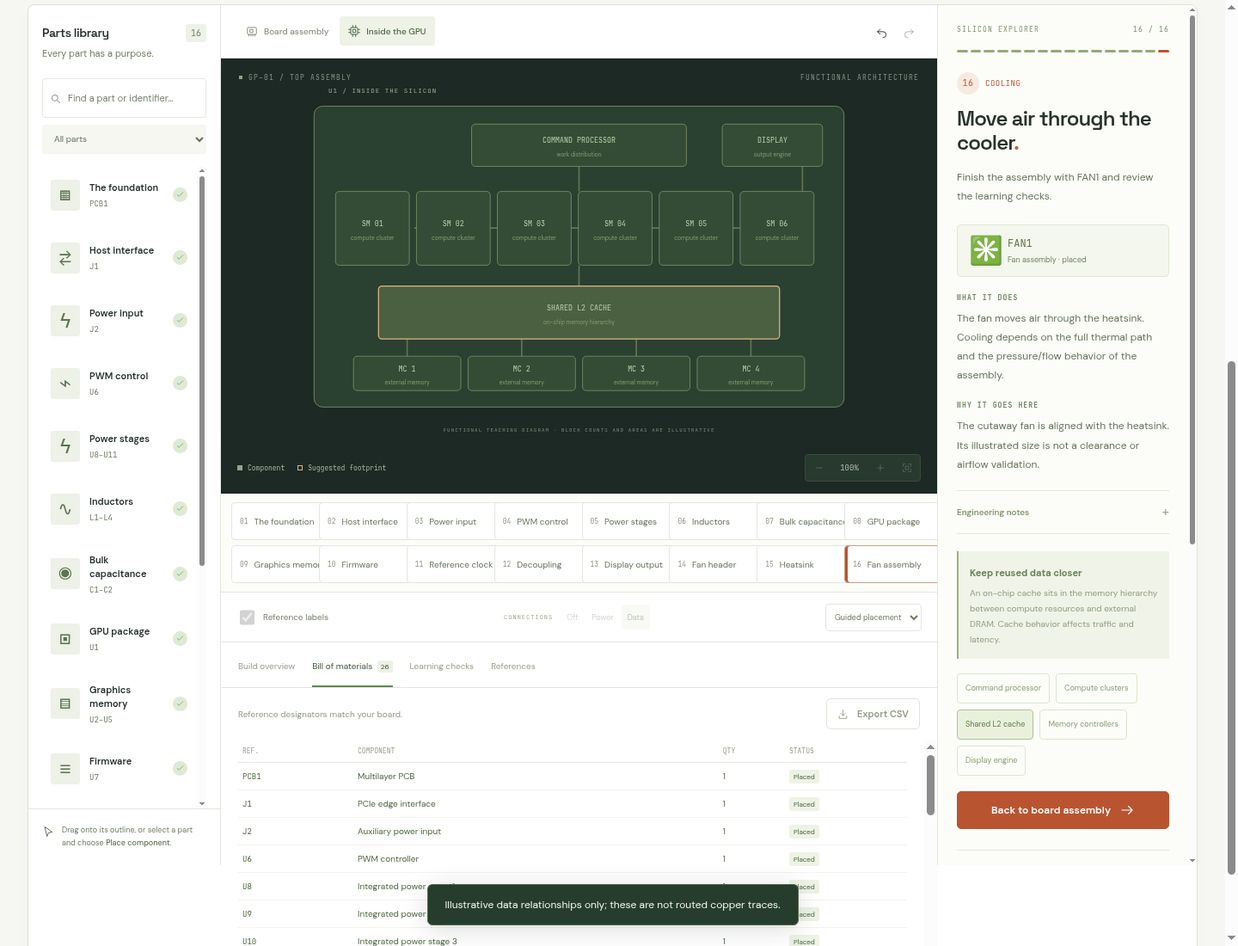
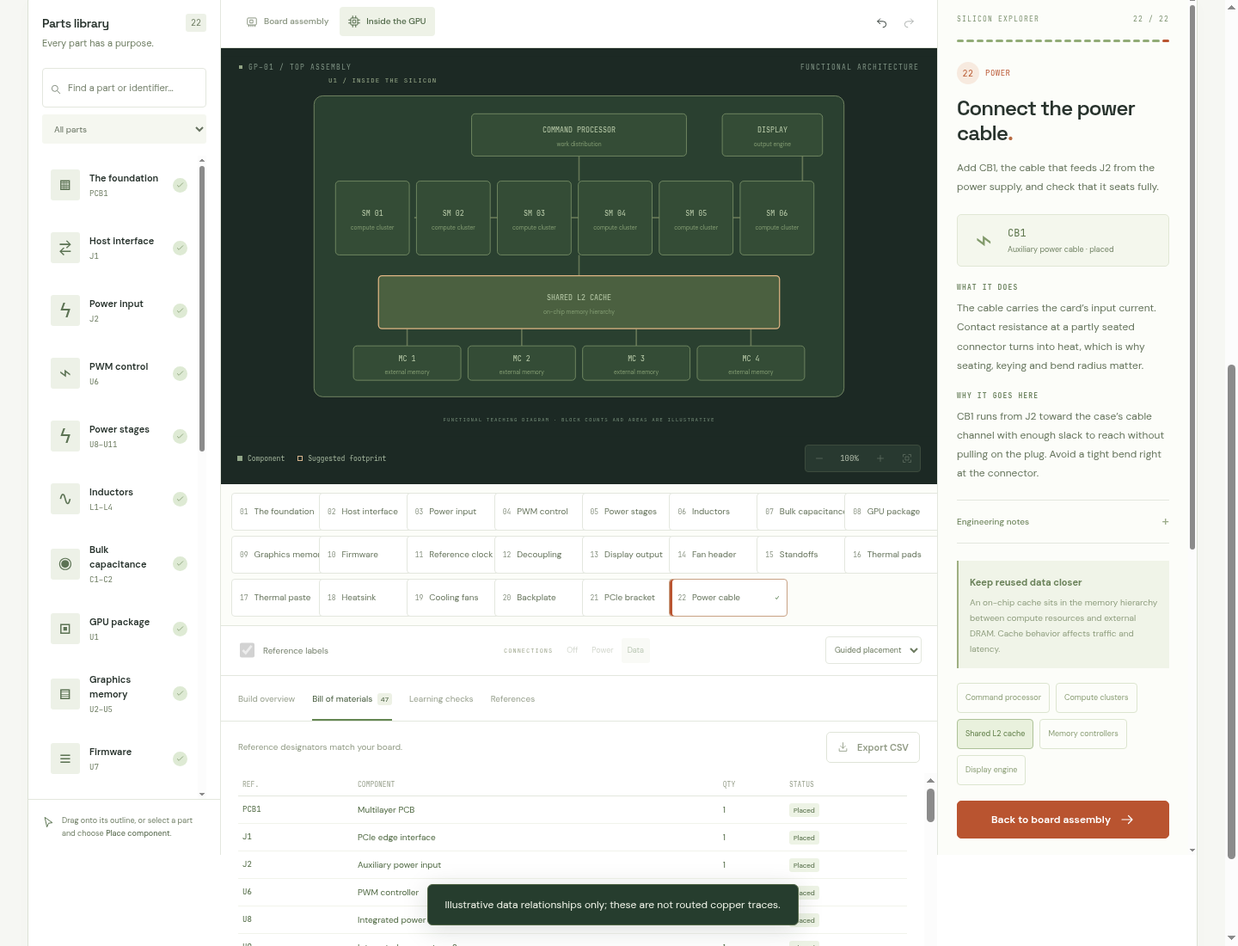
Draw the full card and record the Phase 3 verification

diff --git a/app/index.html b/app/index.html
@@ -5,10 +5,10 @@
 <a class="skip-link" href="#workspace">Skip to workbench</a>
 <header class="app-header"><a class="brand" href="./" aria-label="GPU Builder home"><span class="brand-symbol" aria-hidden="true">▦</span><span>GPU<span class="brand-light">Builder</span><small>THE HARDWARE LEARNING WORKBENCH</small></span></a><div class="header-middle"><span class="live-dot"></span> LEARN BY BUILDING <span class="version">PROTOTYPE / 01</span></div><div class="header-actions"><button class="quiet-button" id="help-button">How it works <span data-icon="help"></span></button><button class="button button-dark" id="export-button"><span data-icon="download"></span><span>Export project</span></button></div></header>
 <main id="workspace">
-<section class="bench-intro" aria-labelledby="bench-title"><div class="bench-copy"><p class="eyebrow">THE HARDWARE LEARNING WORKBENCH</p><h1 id="bench-title">Build a graphics card.<br><span>Understand every part.</span></h1><p class="bench-lede">Follow sixteen guided connections from the PCB to the cooler. Every package, reference designator and quiz is tied to the board in front of you.</p><div class="bench-actions"><a class="button button-orange" id="start-build" href="#workspace">Start the guided build <span data-icon="arrow"></span></a><a class="button" id="custom-build-teaser" href="#custom">Open the custom builder</a></div></div><div class="bench-gallery"><figure><img src="./assets/gpu/hero-card.webp" width="1600" height="1067" alt="A three-fan flagship graphics card installed in an open PC case"><figcaption>Flagship card · three-fan cooler</figcaption></figure><figure><img src="./assets/gpu/cooler-macro.webp" width="1600" height="1067" alt="Macro photograph of a heatsink, copper heatpipes and backplate" loading="lazy"><figcaption>Heatpipes into the fin stack</figcaption></figure><figure><img src="./assets/gpu/install.webp" width="1600" height="1067" alt="Hands seating a graphics card into a motherboard PCIe slot" loading="lazy"><figcaption>Seating the PCIe edge</figcaption></figure><figure><img src="./assets/gpu/board-macro.webp" width="1600" height="1067" alt="Top-down macro of a graphics card PCB with GPU and memory packages" loading="lazy"><figcaption>GPU, memory and power stages</figcaption></figure></div></section>
-<section class="project-bar" aria-label="Project settings"><div class="project-name-wrap"><span class="eyebrow">YOUR WORKSPACE <span>/</span> GP–01</span><label class="project-name-label"><span class="sr-only">Project name</span><input id="project-name" value="My first graphics card" maxlength="80" spellcheck="false"></label></div><div class="project-progress"><div><span id="progress-label">0 of 26 assemblies</span><span id="progress-percent">0%</span></div><progress id="progress" max="26" value="0" aria-label="Assembly progress"></progress></div><div class="save-state"><span class="save-dot"></span><span id="save-label">Saved on this browser</span></div></section>
+<section class="bench-intro" aria-labelledby="bench-title"><div class="bench-copy"><p class="eyebrow">THE HARDWARE LEARNING WORKBENCH</p><h1 id="bench-title">Build a graphics card.<br><span>Understand every part.</span></h1><p class="bench-lede">Follow twenty-two guided connections from the PCB to the cooler, the backplate and the bracket. Every package, reference designator and quiz is tied to the board in front of you.</p><div class="bench-actions"><a class="button button-orange" id="start-build" href="#workspace">Start the guided build <span data-icon="arrow"></span></a><a class="button" id="custom-build-teaser" href="#custom">Open the custom builder</a></div></div><div class="bench-gallery"><figure><img src="./assets/gpu/hero-card.webp" width="1600" height="1067" alt="A three-fan flagship graphics card installed in an open PC case"><figcaption>Flagship card · three-fan cooler</figcaption></figure><figure><img src="./assets/gpu/cooler-macro.webp" width="1600" height="1067" alt="Macro photograph of a heatsink, copper heatpipes and backplate" loading="lazy"><figcaption>Heatpipes into the fin stack</figcaption></figure><figure><img src="./assets/gpu/install.webp" width="1600" height="1067" alt="Hands seating a graphics card into a motherboard PCIe slot" loading="lazy"><figcaption>Seating the PCIe edge</figcaption></figure><figure><img src="./assets/gpu/board-macro.webp" width="1600" height="1067" alt="Top-down macro of a graphics card PCB with GPU and memory packages" loading="lazy"><figcaption>GPU, memory and power stages</figcaption></figure></div></section>
+<section class="project-bar" aria-label="Project settings"><div class="project-name-wrap"><span class="eyebrow">YOUR WORKSPACE <span>/</span> GP–01</span><label class="project-name-label"><span class="sr-only">Project name</span><input id="project-name" value="My first graphics card" maxlength="80" spellcheck="false"></label></div><div class="project-progress"><div><span id="progress-label">0 of 47 assemblies</span><span id="progress-percent">0%</span></div><progress id="progress" max="47" value="0" aria-label="Assembly progress"></progress></div><div class="save-state"><span class="save-dot"></span><span id="save-label">Saved on this browser</span></div></section>
 <div class="workbench">
-<aside class="library-panel" aria-label="Component library"><div class="panel-title"><h2>Parts library</h2><span id="library-count" class="counter">16</span></div><p class="panel-intro">Every part has a purpose.</p><label class="search-box"><span data-icon="search"></span><input id="part-search" type="search" placeholder="Find a part or identifier…" aria-label="Find a component"></label><label class="category-label"><span class="sr-only">Component category</span><select id="category-select"></select></label><div id="part-list" class="part-list"></div><div class="library-footer"><span data-icon="cursor"></span><span>Drag onto its outline, or select a part and choose <strong>Place component</strong>.</span></div></aside>
+<aside class="library-panel" aria-label="Component library"><div class="panel-title"><h2>Parts library</h2><span id="library-count" class="counter">22</span></div><p class="panel-intro">Every part has a purpose.</p><label class="search-box"><span data-icon="search"></span><input id="part-search" type="search" placeholder="Find a part or identifier…" aria-label="Find a component"></label><label class="category-label"><span class="sr-only">Component category</span><select id="category-select"></select></label><div id="part-list" class="part-list"></div><div class="library-footer"><span data-icon="cursor"></span><span>Drag onto its outline, or select a part and choose <strong>Place component</strong>.</span></div></aside>
 <section class="center-panel" aria-label="Design workbench"><div class="canvas-toolbar"><div class="segmented" role="group" aria-label="Workbench view"><button id="board-view" class="active" aria-pressed="true"><span data-icon="board"></span>Board assembly</button><button id="die-view" aria-pressed="false"><span data-icon="chip"></span>Inside the GPU</button></div><div class="history-tools"><button id="undo-button" class="icon-button" title="Undo (Ctrl or Cmd + Z)" aria-label="Undo"><span data-icon="undo"></span></button><button id="redo-button" class="icon-button" title="Redo (Ctrl or Cmd + Shift + Z)" aria-label="Redo"><span data-icon="redo"></span></button></div></div>
 <div class="canvas-frame"><div class="canvas-topline"><span><i></i> GP–01 / TOP ASSEMBLY</span><span id="canvas-mode-label">GUIDED WORKSPACE</span></div><div id="canvas" class="board-canvas"></div><div class="canvas-bottomline"><div class="canvas-legend"><span><i class="legend-chip"></i> Component</span><span><i class="legend-footprint"></i> Suggested footprint</span></div><div class="zoom-controls"><button id="zoom-out" aria-label="Zoom out" title="Zoom out"><span data-icon="minus"></span></button><span id="zoom-level">100%</span><button id="zoom-in" aria-label="Zoom in" title="Zoom in"><span data-icon="plus"></span></button><button id="zoom-fit" aria-label="Fit board" title="Fit board"><span data-icon="fit"></span></button></div></div></div>
 <nav class="build-path" id="build-path" aria-label="Build path"></nav>
@@ -22,6 +22,6 @@
 <section class="custom-view" id="custom-view" hidden aria-labelledby="custom-title"><div class="custom-head"><div><p class="eyebrow">CUSTOM BUILD <span>/</span> SEPARATE FROM THE LESSONS</p><h2 id="custom-title">Size the memory.<br>Fill the banks.</h2><p class="bench-lede">Set a VRAM target and a package size. The builder works out how many memory packages a card of that size needs, groups them into banks, and lets you fill the board.</p></div><a class="text-link" id="custom-back" href="#workspace">Back to the teaching workbench</a></div><div class="custom-controls"><label class="custom-field"><span>VRAM target</span><select id="custom-capacity"></select></label><label class="custom-field"><span>Package size</span><select id="custom-module"></select></label><div class="custom-actions"><button class="button button-orange" id="custom-place-bank" type="button">Place next bank</button><button class="button" id="custom-place-all" type="button">Fill all banks</button><button class="button" id="custom-reset" type="button">Reset build</button></div></div><p class="custom-summary" id="custom-summary" role="status"></p><div class="custom-board" id="custom-board"></div><p class="custom-note">A 512 GB target is sixteen 32 GB packages in two banks. Package counts, bus widths and bank grouping are teaching estimates, not a vendor design.</p></section>
 <input id="import-file" type="file" accept=".json,application/json" hidden>
 <div id="toast" class="toast" role="status" aria-live="polite"></div>
-<dialog id="help-dialog"><div class="dialog-heading"><span class="eyebrow">WELCOME TO YOUR BENCH</span><button class="icon-button close-dialog" aria-label="Close help"><span data-icon="close"></span></button></div><h2>Build something.<br>Understand everything.</h2><p>Start with PCB1, then follow the guide through power delivery, the processor, memory and cooling.</p><ol><li><strong>Select a part.</strong> Read its role and reference identifier in the guide.</li><li><strong>Place it.</strong> Use the placement button or drag it onto its suggested outline.</li><li><strong>Make the connection.</strong> Answer a knowledge check, inspect installed parts, or view the GPU’s internal blocks.</li></ol><p>Explore mode lets you move and rotate parts. Removing a part also removes components that depend on it; Undo restores the change.</p><div class="help-callout">This is a learning workbench. Package geometry, power phases and ratings are illustrative. The checks do not replace electrical simulation or PCB/ASIC design verification.</div><p class="shortcut-note">Ctrl/Cmd + Z: undo · Ctrl/Cmd + Shift + Z: redo · Escape: clear selection. Export your project to move it between browsers.</p><button class="button button-orange close-dialog">Let’s build <span data-icon="arrow"></span></button></dialog>
+<dialog id="help-dialog"><div class="dialog-heading"><span class="eyebrow">WELCOME TO YOUR BENCH</span><button class="icon-button close-dialog" aria-label="Close help"><span data-icon="close"></span></button></div><h2>Build something.<br>Understand everything.</h2><p>Start with PCB1, then follow the guide through power delivery, the processor, memory, thermal interface, cooling, the backplate and the bracket.</p><ol><li><strong>Select a part.</strong> Read its role and reference identifier in the guide.</li><li><strong>Place it.</strong> Use the placement button or drag it onto its suggested outline.</li><li><strong>Make the connection.</strong> Answer a knowledge check, inspect installed parts, or view the GPU’s internal blocks.</li></ol><p>Explore mode lets you move and rotate parts. Removing a part also removes components that depend on it; Undo restores the change.</p><div class="help-callout">This is a learning workbench. Package geometry, power phases and ratings are illustrative. The checks do not replace electrical simulation or PCB/ASIC design verification.</div><p class="shortcut-note">Ctrl/Cmd + Z: undo · Ctrl/Cmd + Shift + Z: redo · Escape: clear selection. Export your project to move it between browsers.</p><button class="button button-orange close-dialog">Let’s build <span data-icon="arrow"></span></button></dialog>
 <dialog id="reset-dialog"><div class="dialog-heading"><span class="eyebrow">NEW PROJECT</span><button class="icon-button close-dialog" aria-label="Cancel new project"><span data-icon="close"></span></button></div><h2>A fresh board?</h2><p>This replaces the workspace saved in this browser. Export your current project first if you want to keep a copy.</p><div class="dialog-actions"><button class="button close-dialog">Keep working</button><button id="confirm-reset" class="button button-orange">Start new project</button></div></dialog>
 </body></html>

diff --git a/app/src/app.js b/app/src/app.js
@@ -7,7 +7,7 @@ const storageKey='gpu-builder.project.v1';
 let project=createProject(),loadWarning='',storageAvailable=true;
 try{const raw=localStorage.getItem(storageKey);if(raw)project=validateProject(JSON.parse(raw));}catch{loadWarning='Your saved project could not be loaded. You can import an exported copy or start a new build.';}
 let selected=nextPart(project)?.id||'U1';
-let lessonIndex=groups.findIndex(g=>!g.parts.every(p=>installed(project,p.id))||project.answers[g.index]!==g.quiz.correct);if(lessonIndex<0)lessonIndex=15;
+let lessonIndex=groups.findIndex(g=>!g.parts.every(p=>installed(project,p.id))||project.answers[g.index]!==g.quiz.correct);if(lessonIndex<0)lessonIndex=groups.length-1;
 let view='board',archSelected='compute',overlay='none',labels=true,zoom=1,pan={x:0,y:0},dock='overview',past=[],future=[],toastTimer;
 let drag=null;
 document.querySelectorAll('[data-icon]').forEach(el=>el.innerHTML=icon(el.dataset.icon));
@@ -40,16 +40,16 @@ function renderGuide(){
  const id=inspected?selectedDef:pending||g.parts.at(-1),needs=pending?missing(project,pending.id):[];
  const correct=project.answers[lessonIndex]===g.quiz.correct;const answered=Object.hasOwn(project.answers,lessonIndex);
  const ref=sources[g.source];
- $('#guide-content').innerHTML=`<div class="guide-eyebrow"><span>${view==='die'?'SILICON EXPLORER':'YOUR ASSEMBLY GUIDE'}</span><span>${String(lessonIndex+1).padStart(2,'0')} / 16</span></div><div class="guide-step" aria-label="Sixteen assembly lessons">${groups.map(group=>`<span class="${group.index===lessonIndex?'current':group.parts.every(p=>installed(project,p.id))?'complete':''}"></span>`).join('')}</div><div class="lesson-index"><span class="number">${String(lessonIndex+1).padStart(2,'0')}</span><span>${esc(g.category.toUpperCase())}</span></div><h2>${esc(g.title)}<span style="color:#b86c43">.</span></h2><p class="lesson-intro">${esc(g.intro)}</p><div class="component-identity"><span class="identity-symbol" aria-hidden="true">${g.symbol}</span><div class="identity-info"><strong>${esc(id.id)}</strong><small>${esc(id.name)}${inspected?' · placed':''}</small></div></div><section class="lesson-section"><h3>What it does</h3><p>${esc(g.function)}</p></section><section class="lesson-section"><h3>Why it goes here</h3><p>${esc(g.placement)}</p></section><details class="engineering-details"><summary>Engineering notes</summary><p>${esc(g.detail)}</p></details>
+ $('#guide-content').innerHTML=`<div class="guide-eyebrow"><span>${view==='die'?'SILICON EXPLORER':'YOUR ASSEMBLY GUIDE'}</span><span>${String(lessonIndex+1).padStart(2,'0')} / ${groups.length}</span></div><div class="guide-step" aria-label="${groups.length} assembly lessons">${groups.map(group=>`<span class="${group.index===lessonIndex?'current':group.parts.every(p=>installed(project,p.id))?'complete':''}"></span>`).join('')}</div><div class="lesson-index"><span class="number">${String(lessonIndex+1).padStart(2,'0')}</span><span>${esc(g.category.toUpperCase())}</span></div><h2>${esc(g.title)}<span style="color:#b86c43">.</span></h2><p class="lesson-intro">${esc(g.intro)}</p><div class="component-identity"><span class="identity-symbol" aria-hidden="true">${g.symbol}</span><div class="identity-info"><strong>${esc(id.id)}</strong><small>${esc(id.name)}${inspected?' · placed':''}</small></div></div><section class="lesson-section"><h3>What it does</h3><p>${esc(g.function)}</p></section><section class="lesson-section"><h3>Why it goes here</h3><p>${esc(g.placement)}</p></section><details class="engineering-details"><summary>Engineering notes</summary><p>${esc(g.detail)}</p></details>
  ${view==='die'?`<div class="arch-info"><strong>${esc(architectureBlocks.find(b=>b.id===archSelected).title)}</strong><p>${esc(architectureBlocks.find(b=>b.id===archSelected).text)}</p></div><div class="arch-list">${architectureBlocks.map(b=>`<button class="${b.id===archSelected?'active':''}" data-arch-select="${b.id}">${esc(b.label)}</button>`).join('')}</div><button class="button button-orange place-button" data-action="return-board">Back to board assembly ${icon('arrow')}</button>`:`${g.parts.length>1?`<div class="group-status">${g.parts.map(p=>`<span class="${installed(project,p.id)?'placed':''}">${esc(p.id)} ${installed(project,p.id)?'✓':''}</span>`).join('')}</div>`:''}<button class="button button-orange place-button" data-action="place" ${done||needs.length?'disabled':''}>${done?icon('check'):icon('plus')} ${done?'Step assembled':`Place ${esc(pending.id)}`}</button><p class="placement-note">${needs.length?'Requires '+esc(needs.join(', '))+' first.':done?'Answer the knowledge check to continue.':'Snaps to the suggested footprint · drag also supported'}</p>${inspected&&id.kind!=='pcb'?`<div class="inspect-actions"><button class="button" data-action="rotate" ${project.mode!=='explore'?'disabled':''}>${icon('rotate')} Rotate</button><button class="button" data-action="remove">${icon('trash')} Remove</button></div>${project.mode==='explore'?`<div class="nudge-controls"><span>MOVE / 5 DIAGRAM UNITS</span>${[[-5,0,'←','left'],[0,-5,'↑','up'],[0,5,'↓','down'],[5,0,'→','right']].map(([x,y,label,direction])=>`<button data-nudge-x="${x}" data-nudge-y="${y}" aria-label="Move selected component ${direction}">${label}</button>`).join('')}</div>`:''}<p class="selection-note">${project.mode==='explore'?'Drag the selected package to move it.':'Switch to Explore layout to move or rotate parts.'} Removal also removes dependent parts. Undo restores them.</p>`:''}`}
  ${done?`<section class="knowledge-check"><h3>MAKE THE CONNECTION</h3><p>${esc(g.quiz.q)}</p>${g.quiz.answers.map((answer,i)=>`<button class="answer ${answered&&project.answers[lessonIndex]===i?(i===g.quiz.correct?'correct':'incorrect'):''}" data-answer="${i}" aria-pressed="${answered&&project.answers[lessonIndex]===i}"><span>${String.fromCharCode(65+i)}</span><span>${esc(answer)}</span></button>`).join('')}${answered?`<div class="quiz-feedback ${correct?'correct':''}" role="status"><strong>${correct?'Exactly.':'Take another look.'}</strong> ${esc(g.quiz.why)}</div>`:''}</section>`:''}
- ${project.placements.length===parts.length?`<div class="complete-banner"><strong>Your teaching board is assembled.</strong><br>${Object.entries(project.answers).filter(([i,a])=>a===groups[i].quiz.correct).length}/16 knowledge checks answered correctly. Inspect the board, review the checks, or export your build.</div>`:''}<div class="lesson-navigation"><button data-action="previous" ${lessonIndex===0?'disabled':''}>← Previous</button><button data-action="next" ${lessonIndex===15||!done||!correct?'disabled':''}>Next connection ${icon('arrow')}</button></div><a class="lesson-source" href="${ref.url}" target="_blank" rel="noopener noreferrer">Reference: ${esc(ref.name)} ↗</a>`;
+ ${project.placements.length===parts.length?`<div class="complete-banner"><strong>Your teaching board is assembled.</strong><br>${Object.entries(project.answers).filter(([i,a])=>a===groups[i].quiz.correct).length}/${groups.length} knowledge checks answered correctly. Inspect the board, review the checks, or export your build.</div>`:''}<div class="lesson-navigation"><button data-action="previous" ${lessonIndex===0?'disabled':''}>← Previous</button><button data-action="next" ${lessonIndex===groups.length-1||!done||!correct?'disabled':''}>Next connection ${icon('arrow')}</button></div><a class="lesson-source" href="${ref.url}" target="_blank" rel="noopener noreferrer">Reference: ${esc(ref.name)} ↗</a>`;
 }
 function renderDock(){
  const stat=memoryStats(project);$('#bom-count').textContent=project.placements.length;
  const learned=Object.entries(project.answers).filter(([i,a])=>a===groups[i].quiz.correct).length;
- if(dock==='overview')$('#dock-content').innerHTML=`<div class="overview"><div class="metric"><span class="metric-label">LOCAL MEMORY</span><strong>${stat.capacity} <span>GB</span></strong><small>${stat.count} of 4 GDDR6 packages</small></div><div class="metric"><span class="metric-label">MEMORY INTERFACE</span><strong>${stat.bits} <span>bit</span></strong><small>${stat.bandwidth} GB/s theoretical</small></div><div class="metric"><span class="metric-label">KNOWLEDGE CHECKS</span><strong>${String(learned).padStart(2,'0')} <span>/ 16</span></strong><small>Understand every connection</small></div></div><p class="metric-note">${stat.count?'Bandwidth = 16 Gb/s per pin × '+stat.bits+' bits ÷ 8. Illustrative, fully populated independent x32 channels; not measured performance.':'Place components to build up your board’s teaching inventory. Start with PCB1, then follow the guide.'}</p>`;
- if(dock==='bom')$('#dock-content').innerHTML=`<div class="bom-toolbar"><span>Reference designators match your board.</span><button class="button button-small" data-action="csv">${icon('download',13)} Export CSV</button></div><div class="table-scroll"><table class="bom-table"><thead><tr><th>REF.</th><th>COMPONENT</th><th>QTY</th><th>STATUS</th></tr></thead><tbody>${parts.map(p=>`<tr class="${installed(project,p.id)?'placed':''}"><td>${esc(p.id)}</td><td>${esc(p.name)}</td><td>${p.kind==='decoupling'?8:1}</td><td><span class="status-pill ${installed(project,p.id)?'':'pending'}">${installed(project,p.id)?'Placed':'To place'}</span></td></tr>`).join('')}</tbody></table></div>`;
+ if(dock==='overview')$('#dock-content').innerHTML=`<div class="overview"><div class="metric"><span class="metric-label">LOCAL MEMORY</span><strong>${stat.capacity} <span>GB</span></strong><small>${stat.count} of 4 GDDR6 packages</small></div><div class="metric"><span class="metric-label">MEMORY INTERFACE</span><strong>${stat.bits} <span>bit</span></strong><small>${stat.bandwidth} GB/s theoretical</small></div><div class="metric"><span class="metric-label">KNOWLEDGE CHECKS</span><strong>${String(learned).padStart(2,'0')} <span>/ ${groups.length}</span></strong><small>Understand every connection</small></div></div><p class="metric-note">${stat.count?'Bandwidth = 16 Gb/s per pin × '+stat.bits+' bits ÷ 8. Illustrative, fully populated independent x32 channels; not measured performance.':'Place components to build up your board’s teaching inventory. Start with PCB1, then follow the guide.'}</p>`;
+ if(dock==='bom')$('#dock-content').innerHTML=`<div class="bom-toolbar"><span>Reference designators match your board.</span><button class="button button-small" data-action="csv">${icon('download',13)} Export CSV</button></div><div class="table-scroll"><table class="bom-table"><thead><tr><th>REF.</th><th>COMPONENT</th><th>QTY</th><th>STATUS</th></tr></thead><tbody>${parts.map(p=>`<tr class="${installed(project,p.id)?'placed':''}"><td>${esc(p.id)}</td><td>${esc(p.name)}</td><td>${p.qty}</td><td><span class="status-pill ${installed(project,p.id)?'':'pending'}">${installed(project,p.id)?'Placed':'To place'}</span></td></tr>`).join('')}</tbody></table></div>`;
  if(dock==='checks')$('#dock-content').innerHTML=`<div class="checks-list">${checks(project).map(c=>`<div class="check-row"><span class="check-dot ${c.ok?'pass':''}">${c.ok?'✓':'·'}</span><div><strong>${esc(c.label)}</strong><p>${esc(c.detail)}</p></div></div>`).join('')}</div>`;
  if(dock==='notes')$('#dock-content').innerHTML=`<div class="references">${sources.map(s=>`<a href="${s.url}" target="_blank" rel="noopener noreferrer">${esc(s.name)} ↗</a>`).join('')}<p>Component functions are grounded in public engineering references. This is a generic teaching board. It has no vendor affiliation, component procurement list, pin mapping or verified routing. The silicon diagram uses illustrative block counts.</p></div>`;
  $('#dock-content').setAttribute('aria-labelledby','tab-'+dock);
@@ -115,7 +115,7 @@ $('#guide-content').addEventListener('click',event=>{
  const action=event.target.closest('[data-action]')?.dataset.action;
  if(action==='place'){placeCurrent();if(event.detail===0)($('#guide-content [data-action="place"]:not([disabled])')||$('#guide-content .answer'))?.focus();}
  if(action==='return-board'){view='board';renderCanvas();renderGuide();}
- if(action==='next'&&lessonIndex<15){chooseGroup(lessonIndex+1);if(event.detail===0)$('#guide-content [data-action="place"]:not([disabled])')?.focus();}
+ if(action==='next'&&lessonIndex<groups.length-1){chooseGroup(lessonIndex+1);if(event.detail===0)$('#guide-content [data-action="place"]:not([disabled])')?.focus();}
  if(action==='previous'&&lessonIndex>0)chooseGroup(lessonIndex-1);
  if(action==='rotate'){const p=project.placements.find(p=>p.id===selected);if(p)try{commit(move(project,p.id,p.x,p.y,(p.rotation+90)%360),p.id+' rotated.');}catch(e){toast(e.message);}}
  if(action==='remove'&&selected){const result=remove(project,selected);selected=nextPart(result.project)?.id||'PCB1';lessonIndex=byId[selected].lesson;commit(result.project,result.removed.length+' dependent '+(result.removed.length===1?'assembly removed.':'assemblies removed.')+' Undo is available.');}

diff --git a/app/src/render.js b/app/src/render.js
@@ -17,7 +17,14 @@ export function componentShape(def){
  if(kind==='display')return `<rect class="display-case" x="-22" y="-63" width="44" height="126" rx="3"/>${[0,1,2].map(i=>`<rect class="display-port" x="-20" y="${-54+i*38}" width="25" height="28" rx="2"/><path class="port-contact" d="M-15 ${-45+i*38}h15"/>`).join('')}`;
  if(kind==='fanheader')return `<rect class="fan-header" x="-26" y="-12" width="52" height="24" rx="2"/>${[0,1,2,3].map(i=>`<rect class="gold-pin" x="${-19+i*11}" y="-6" width="5" height="12"/>`).join('')}`;
  if(kind==='heatsink')return `<rect class="cooler-envelope" x="-176" y="-130" width="352" height="260" rx="14"/>${Array.from({length:24},(_,i)=>`<path class="cooler-fin" d="M${-160+i*14}-116v232"/>`).join('')}<text class="thermal-label" y="-139">HS1 / COOLING ENVELOPE</text>`;
- if(kind==='fan')return `<circle class="fan-envelope" r="83"/>${Array.from({length:7},(_,i)=>`<path class="fan-blade" transform="rotate(${i*360/7})" d="M-11-10C-60-20-51-67-17-68 11-65 2-34 8-16Z"/>`).join('')}<circle class="fan-hub" r="22"/><text class="thermal-label" y="4">FAN1</text>`;
+ if(kind==='fan'){const s=w/166;return `<g transform="scale(${s})"><circle class="fan-envelope" r="83"/>${Array.from({length:7},(_,i)=>`<path class="fan-blade" transform="rotate(${i*360/7})" d="M-11-10C-60-20-51-67-17-68 11-65 2-34 8-16Z"/>`).join('')}<circle class="fan-hub" r="22"/></g><text class="thermal-label" y="4">${escape(id)}</text>`;}
+ if(kind==='standoff')return `<circle class="standoff-washer" r="${w/2}"/><circle class="standoff-ring" r="${w/2-1.5}"/><circle class="standoff-bore" r="${w/2-5}"/><path class="standoff-flats" d="M${-w/2+2} ${-w/2+6}h${w-4}M${-w/2+2} ${w/2-6}h${w-4}"/>`;
+ if(kind==='pad')return `<rect class="thermal-pad" x="${-w/2}" y="${-h/2}" width="${w}" height="${h}" rx="3"/><path class="pad-cross" d="M${-w/2+4} ${-h/2+4}l${w-8} ${h-8}M${w/2-4} ${-h/2+4}l${-(w-8)} ${h-8}"/><text class="pad-mark" y="4">${escape(id)}</text>`;
+ if(kind==='paste')return `<rect class="paste-layer" x="${-w/2}" y="${-h/2}" width="${w}" height="${h}" rx="2"/><path class="paste-hatch" d="M${-w/2+6}-30h${w-12}M${-w/2+6}-15h${w-12}M${-w/2+6} 8h${w-12}M${-w/2+6} 26h${w-12}M-20 ${-h/2+6}v${h-12}M0 ${-h/2+6}v${h-12}M20 ${-h/2+6}v${h-12}"/><text class="pad-mark" y="4">TIM</text>`;
+ if(kind==='backplate')return `<rect class="backplate-panel" x="${-w/2}" y="${-h/2}" width="${w}" height="${h}" rx="10"/>${Array.from({length:9},(_,i)=>`<path class="backplate-rib" d="M${-w/2+22+i*14} ${-h/2+18}v${h-36}"/>`).join('')}<text class="backplate-mark" x="${-w/2+26}" y="${h/2-14}">BP1 · REAR STIFFENER</text>`;
+ if(kind==='screw')return `<circle class="screw-washer" r="${w/2+2.5}"/><circle class="screw-head" r="${w/2}"/><path class="screw-slot" d="M${-w/2+3.5} 0h${w-7}"/>`;
+ if(kind==='bracket')return `<rect class="bracket-plate" x="${-w/2}" y="${-h/2}" width="${w}" height="${h}" rx="1"/><path class="bracket-tab" d="M${-w/2} ${-h/2-16}h${w}v16h${-w}z"/>${[0,1,2].map(i=>`<rect class="bracket-port" x="${-w/2+3}" y="${-h/2+34+i*82}" width="${w-6}" height="52" rx="1"/>`).join('')}${[[-h/2+16],[h/2-16]].map(([y])=>`<circle class="bracket-hole" cy="${y}" r="3.2"/>`).join('')}<text class="bracket-mark" transform="rotate(-90)" y="2">BR1 · I/O</text>`;
+ if(kind==='cable')return `<path class="cable-run" d="M${-w/2+22} -20C${-w/2+60} -34 ${w/2-44} 30 ${w/2-10} 24"/><path class="cable-sleeve" d="M${-w/2+22} -20C${-w/2+60} -34 ${w/2-44} 30 ${w/2-10} 24"/><rect class="cable-plug" x="${-w/2+8}" y="-32" width="26" height="24" rx="2"/><rect class="cable-plug" x="${w/2-16}" y="12" width="24" height="22" rx="2"/><text class="hardware-label" y="${h/2}">CB1</text>`;
  if(kind==='decoupling')return Array.from({length:8},(_,i)=>`<rect class="decoupler-pad" x="${-56+i*14}" y="-8" width="10" height="16"/><rect class="decoupler" x="${-56+i*14}" y="-4" width="10" height="8"/>`).join('');
  if(kind==='clock')return `<rect class="oscillator" x="-18" y="-11" width="36" height="22" rx="4"/><text class="oscillator-mark" y="4">REF</text>`;
  return `<g class="package-pins">${pins(w,h)}</g><g class="ic-body">${rect}</g><text class="chip-small" y="4">${id}</text><circle class="pin-mark" cx="${-w/2+5}" cy="${-h/2+5}" r="2"/>`;
@@ -31,13 +38,15 @@ function substrate(){
 export function boardSvg(project,{selected,preview,overlay='none',labels=true,zoom=1,pan={x:0,y:0}}){
  const hasBoard=project.placements.some(p=>p.id==='PCB1');
  const width=1000/zoom,height=530/zoom,vx=(1000-width)/2+pan.x,vy=(530-height)/2+pan.y;
- const placed=project.placements.filter(p=>p.id!=='PCB1').sort((a,b)=>(byId[a.id].category==='Cooling'?1:0)-(byId[b.id].category==='Cooling'?1:0));
+ const layerRank=def=>['pad','paste'].includes(def.kind)?2:def.kind==='heatsink'?3:def.kind==='fan'?4:['screw','bracket','cable'].includes(def.kind)?5:1;
+ const backplate=project.placements.filter(p=>byId[p.id].kind==='backplate').map(p=>`<g class="board-part part-backplate" data-part="${escape(p.id)}" role="button" tabindex="0" aria-label="Inspect ${escape(p.id)}: ${escape(byId[p.id].name)}" transform="translate(${p.x} ${p.y}) scale(1.013)">${componentShape(byId[p.id])}</g>`).join('');
+ const placed=project.placements.filter(p=>p.id!=='PCB1'&&byId[p.id].kind!=='backplate').sort((a,b)=>layerRank(byId[a.id])-layerRank(byId[b.id]));
  const ghost=hasBoard&&preview&&!project.placements.some(p=>p.id===preview)?byId[preview]:null;
  const paths=overlay==='power'?`<path class="flow power-flow" d="M859 112v35h-82v205M777 184h-57M777 239h-57M777 294h-57M777 349h-57M720 184v165M720 270H446"/>`:overlay==='data'?`<path class="flow data-flow" d="M410 452v-37l36-36V270M446 270 326 174M446 270 566 174M446 270 326 355M446 270 566 355M446 270H82V216"/>`:'';
- return `<svg id="board-svg" viewBox="${vx} ${vy} ${width} ${height}" aria-label="Interactive graphics card board. Use the parts library or placement button to add components." xmlns="http://www.w3.org/2000/svg"><defs><pattern id="bench-grid" width="20" height="20" patternUnits="userSpaceOnUse"><circle cx="1" cy="1" r=".65" fill="#6c8776" opacity=".32"/></pattern></defs><rect x="-2000" y="-2000" width="5000" height="5000" fill="#1c2924"/><rect x="-2000" y="-2000" width="5000" height="5000" fill="url(#bench-grid)"/>${hasBoard?substrate():`<rect class="empty-board" x="50" y="90" width="900" height="360" rx="8"/><path class="dimension" d="M50 69H950M50 62v14M950 62v14"/><text class="dimension-label" x="500" y="59">ILLUSTRATIVE BOARD ENVELOPE</text><g class="board-welcome"><rect x="450" y="196" width="100" height="72" rx="5"/><path d="M468 214h64v36h-64zM478 268v13m15-13v13m15-13v13m15-13v13"/><text x="500" y="316">A blank board. Endless connections.</text><text class="welcome-sub" x="500" y="342">Place PCB1 to start your assembly</text></g>`}
+ return `<svg id="board-svg" viewBox="${vx} ${vy} ${width} ${height}" aria-label="Interactive graphics card board. Use the parts library or placement button to add components." xmlns="http://www.w3.org/2000/svg"><defs><pattern id="bench-grid" width="20" height="20" patternUnits="userSpaceOnUse"><circle cx="1" cy="1" r=".65" fill="#6c8776" opacity=".32"/></pattern></defs><rect x="-2000" y="-2000" width="5000" height="5000" fill="#1c2924"/><rect x="-2000" y="-2000" width="5000" height="5000" fill="url(#bench-grid)"/>${backplate}${hasBoard?substrate():`<rect class="empty-board" x="50" y="90" width="900" height="360" rx="8"/><path class="dimension" d="M50 69H950M50 62v14M950 62v14"/><text class="dimension-label" x="500" y="59">ILLUSTRATIVE BOARD ENVELOPE</text><g class="board-welcome"><rect x="450" y="196" width="100" height="72" rx="5"/><path d="M468 214h64v36h-64zM478 268v13m15-13v13m15-13v13m15-13v13"/><text x="500" y="316">A blank board. Endless connections.</text><text class="welcome-sub" x="500" y="342">Place PCB1 to start your assembly</text></g>`}
  ${hasBoard?`<g class="signal-overlay">${paths}</g>`:''}
  ${ghost?`<g class="footprint-ghost" transform="translate(${ghost.x} ${ghost.y})"><rect x="${-ghost.w/2-6}" y="${-ghost.h/2-6}" width="${ghost.w+12}" height="${ghost.h+12}" rx="4"/><path d="M-6 0H6M0-6V6"/><text y="${-ghost.h/2-16}">${escape(ghost.id)} · PLACE HERE</text></g>`:''}
- ${placed.map(p=>{const def=byId[p.id];return `<g class="board-part ${p.id===selected?'is-selected':''} part-${def.kind}" data-part="${escape(p.id)}" role="button" tabindex="0" aria-label="Inspect ${escape(p.id)}: ${escape(def.name)}" transform="translate(${p.x} ${p.y}) rotate(${p.rotation})"><rect class="part-hit" x="${-def.w/2-8}" y="${-def.h/2-8}" width="${def.w+16}" height="${def.h+16}" rx="4"/>${componentShape(def)}${labels&&!['gpu','memory','fan','heatsink'].includes(def.kind)?`<text class="reference-label" y="${def.h/2+15}">${escape(def.id)}</text>`:''}${p.id===selected?`<rect class="selection-outline" x="${-def.w/2-8}" y="${-def.h/2-8}" width="${def.w+16}" height="${def.h+16}" rx="3"/>`:''}</g>`;}).join('')}
+ ${placed.map(p=>{const def=byId[p.id];return `<g class="board-part ${p.id===selected?'is-selected':''} part-${def.kind}" data-part="${escape(p.id)}" role="button" tabindex="0" aria-label="Inspect ${escape(p.id)}: ${escape(def.name)}" transform="translate(${p.x} ${p.y}) rotate(${p.rotation})"><rect class="part-hit" x="${-def.w/2-8}" y="${-def.h/2-8}" width="${def.w+16}" height="${def.h+16}" rx="4"/>${componentShape(def)}${labels&&!['gpu','memory','fan','heatsink','pad','paste','backplate','bracket','cable','screw'].includes(def.kind)?`<text class="reference-label" y="${def.h/2+15}">${escape(def.id)}</text>`:''}${p.id===selected?`<rect class="selection-outline" x="${-def.w/2-8}" y="${-def.h/2-8}" width="${def.w+16}" height="${def.h+16}" rx="3"/>`:''}</g>`;}).join('')}
  ${hasBoard?'<text class="canvas-note" x="500" y="509">TOP SIDE · PACKAGES SHOWN IN CUTAWAY · NOT TO SCALE</text>':''}</svg>`;
 }
 export const architectureBlocks=[

diff --git a/app/styles/app.css b/app/styles/app.css
@@ -10,3 +10,31 @@
 @media(max-width:380px){.header-actions .button-dark>span:last-child{font-size:0}.header-actions .button-dark>span:last-child:after{content:'Export';font-size:10px}.brand{font-size:19px}.brand small{font-size:5.5px}.part-list{grid-template-columns:1fr}.view-options{justify-content:flex-start;gap:5px 10px}.mode-select{margin-left:auto}.canvas-legend>span:last-child{display:none}.segmented button{font-size:9px;gap:5px;padding:6px}.metric strong{font-size:21px}.metric-label{font-size:6px}.save-state{font-size:8px}.project-progress{width:165px}.canvas-toolbar{padding:0 8px}.app-header{padding:0 13px}}
 @media(max-width:700px){.search-box input,.category-label select{font-size:16px}.mode-select select{font-size:16px;width:170px;max-width:170px;min-height:44px}.nudge-controls button{width:44px;min-height:44px}}
 @media(prefers-reduced-motion:reduce){*,*:before,*:after{scroll-behavior:auto!important;transition:none!important;animation:none!important}}
+
+/* Full-assembly hardware: standoffs, thermal interface, backplate, bracket, cable */
+.standoff-washer{fill:#4f5b47;stroke:#9ba57f;stroke-width:.7}
+.standoff-ring{fill:#77826a;stroke:#cfd3b6;stroke-width:1}
+.standoff-bore{fill:#1c2924;stroke:#8d9878;stroke-width:1}
+.standoff-flats{stroke:#404d3c;stroke-width:1.4;fill:none}
+.thermal-pad{fill:#c98f5a;fill-opacity:.3;stroke:#e2ab7c;stroke-width:1;stroke-dasharray:4 3}
+.pad-cross{stroke:#e8b78d;stroke-width:.7;opacity:.45;fill:none}
+.pad-mark{font:7px var(--mono);fill:#f1c99f;text-anchor:middle;letter-spacing:.7px;pointer-events:none}
+.paste-layer{fill:#ded7c1;fill-opacity:.14;stroke:#cbbfa4;stroke-width:1;stroke-dasharray:3 3}
+.paste-hatch{stroke:#d9cdb0;stroke-width:.8;opacity:.32;fill:none}
+.backplate-panel{fill:#232a23;stroke:#6d785f;stroke-width:1.4}
+.backplate-rib{stroke:#3f4a3c;stroke-width:1}
+.backplate-mark{font:6.5px var(--mono);fill:#8b9779;letter-spacing:1.1px}
+.screw-washer{fill:#5d6753;fill-opacity:.75;stroke:#aeb597;stroke-width:.8}
+.screw-head{fill:#8f9882;stroke:#c6ccb1;stroke-width:.8}
+.screw-slot{stroke:#333d30;stroke-width:1.8;stroke-linecap:round}
+.bracket-plate{fill:#878f80;stroke:#c3c9b1;stroke-width:1}
+.bracket-tab{fill:#98a08b;stroke:#c3c9b1;stroke-width:1}
+.bracket-port{fill:#1c2924;stroke:#c7cdb6;stroke-width:.8}
+.bracket-hole{fill:#1c2924;stroke:#b9c1a5;stroke-width:.8}
+.bracket-mark{font:6.5px var(--mono);fill:#3c4536;text-anchor:middle;letter-spacing:1px}
+.cable-run{fill:none;stroke:#232b24;stroke-width:14;stroke-linecap:round}
+.cable-sleeve{fill:none;stroke:#5d6757;stroke-width:2.6;stroke-dasharray:6 4;opacity:.9}
+.cable-plug{fill:#262e26;stroke:#9dab8d;stroke-width:1.1}
+.hardware-label{font:7px var(--mono);fill:#c9d2b7;text-anchor:middle;letter-spacing:.6px}
+.part-pad,.part-paste,.part-backplate,.part-cable,.part-screw{pointer-events:none}
+.part-pad .part-hit,.part-paste .part-hit{stroke:none}

diff --git a/Testing.md b/Testing.md
@@ -38,6 +38,16 @@ node tests/browser-files.mjs
 
 Use an isolated browser profile: the workflow suite clears that profile's GPU Builder localStorage. The scripts target localhost:4180 and never write to an external website.
 
+## Phase 3 full parts — October 24, 2026
+
+Model coverage (`tests/model.test.mjs`, eight tests, 16 with the custom suite): 22 lessons and 47 assemblies in build order — standoffs, thermal pads, paste, heatsink, three fans, backplate, bracket and cable; new thermal and cooling checks; quantities from the catalog (decoupling bank 8, everything else 1) in the BOM CSV; a saved v1 project upgrading instead of throwing, keeping the 24 placements whose prerequisites still hold and dropping the old heatsink and fan.
+
+Browser coverage: `browser-checks.mjs` completes all 22 lessons through the UI at 1440 px (47 assemblies, seven passing checks, 47 BOM rows), then still passes the recorded sweep at 320–1440 px with no exceptions or failed resources. `home.mjs` finds 22 path steps, opens “Mount the standoffs” from step 15 and the final power-cable lesson from the last step. `browser-files.mjs` exports, imports, resets, drags and drag-drops against the 47-part build.
+
+Phone: page height with the empty board is now 3,520 px against a re-budgeted 3,800 px (was 3,300). The extra 245 px is six more lesson cards in the stacked phone library, not spacing; header 58 px, project bar 83 px, no horizontal overflow, touch targets 44 px, and the board still pins at the top of the viewport while the guide scrolls.
+
+Captures: `QA/phase3-complete.png`, `QA/phase3-phone.png` (thermal-pad lesson with the pinned board) and `QA/phase3-stack.png` (zoomed thermal interface and fans).
+
 ## Phase 2 custom builder — October 24, 2026
 
 Model coverage (`tests/custom.test.mjs`, eight tests): chip counts across every supported target including 512 GB at 8 GB (64 packages) and 32 GB (16 packages), rejection of unsupported capacities, module sizes and uneven divisions, banks of eight with stable `M1…Mn` designators, bank and single-package placement, refusal of duplicate or out-of-range packages, target reductions dropping orphaned packages, and import validation.
@@ -48,7 +58,7 @@ Captures: `QA/phase2-custom-phone.png` and `QA/phase2-custom-desktop.png`.
 
 ## Phase 1 redesign — October 24, 2026
 
-`app/tests/home.mjs` opens the landing at 390 × 844 and 1440 × 900: the intro renders above the workbench, four original GPU photographs load from `/assets/gpu/`, the gallery is two-up on a phone and four-up on desktop, and it adds no horizontal overflow at either width. The build path renders all sixteen lessons, marks exactly one `aria-current="step"`, and clicking step 9 opens “Build the local memory interface”.
+`app/tests/home.mjs` opens the landing at 390 × 844 and 1440 × 900: the intro renders above the workbench, four original GPU photographs load from `/assets/gpu/`, the gallery is two-up on a phone and four-up on desktop, and it adds no horizontal overflow at either width. The build path renders every lesson, marks exactly one `aria-current="step"`, and clicking step 9 opens “Build the local memory interface”. (The count is now 22; see Phase 3.)
 
 With the landing in place the empty-board phone page measures 3,275 px (budget 3,300, previously 2,676 before the gallery), header 58 px, project bar 83 px, smallest touch target 44 px. `browser-checks.mjs` still passes the full recorded sweep at 320–1440 px with no browser exceptions or failed resources, and the six model tests pass.
 

diff --git a/Change Log.md b/Change Log.md
@@ -1,5 +1,9 @@
 # Change log
 
+## Phase 3 full parts — October 24, 2026
+
+Made the teaching build a complete card instead of a board with a cooler on top. Appended eight lessons in real build order — corner standoffs, five thermal pads, thermal paste, heatsink, three cooler fans, backplate with four spring screws, PCIe bracket with two screws, and the auxiliary power cable — for 22 lessons and 47 assemblies. Each new part has a reference designator, a quiz, a category and its own board artwork; pads and paste draw under the heatsink, the backplate behind the PCB, and hardware above the stack. The BOM now reports catalog quantities. Projects saved in the old format upgrade on load, keeping every placement whose prerequisites still hold. Verification in [[Testing]].
+
 ## Phase 2 custom builder — October 24, 2026
 
 Added a custom builder that lives separately from the teaching workbench. It asks for a VRAM target (24–512 GB) and a package size (8, 16 or 32 GB), computes the memory packages required, groups them into banks of eight with `M1…Mn` designators, and lets the learner place a bank, a single package, or fill every bank. State persists under its own key so a custom build never touches the lesson project. Captures and verification in [[Testing]].
